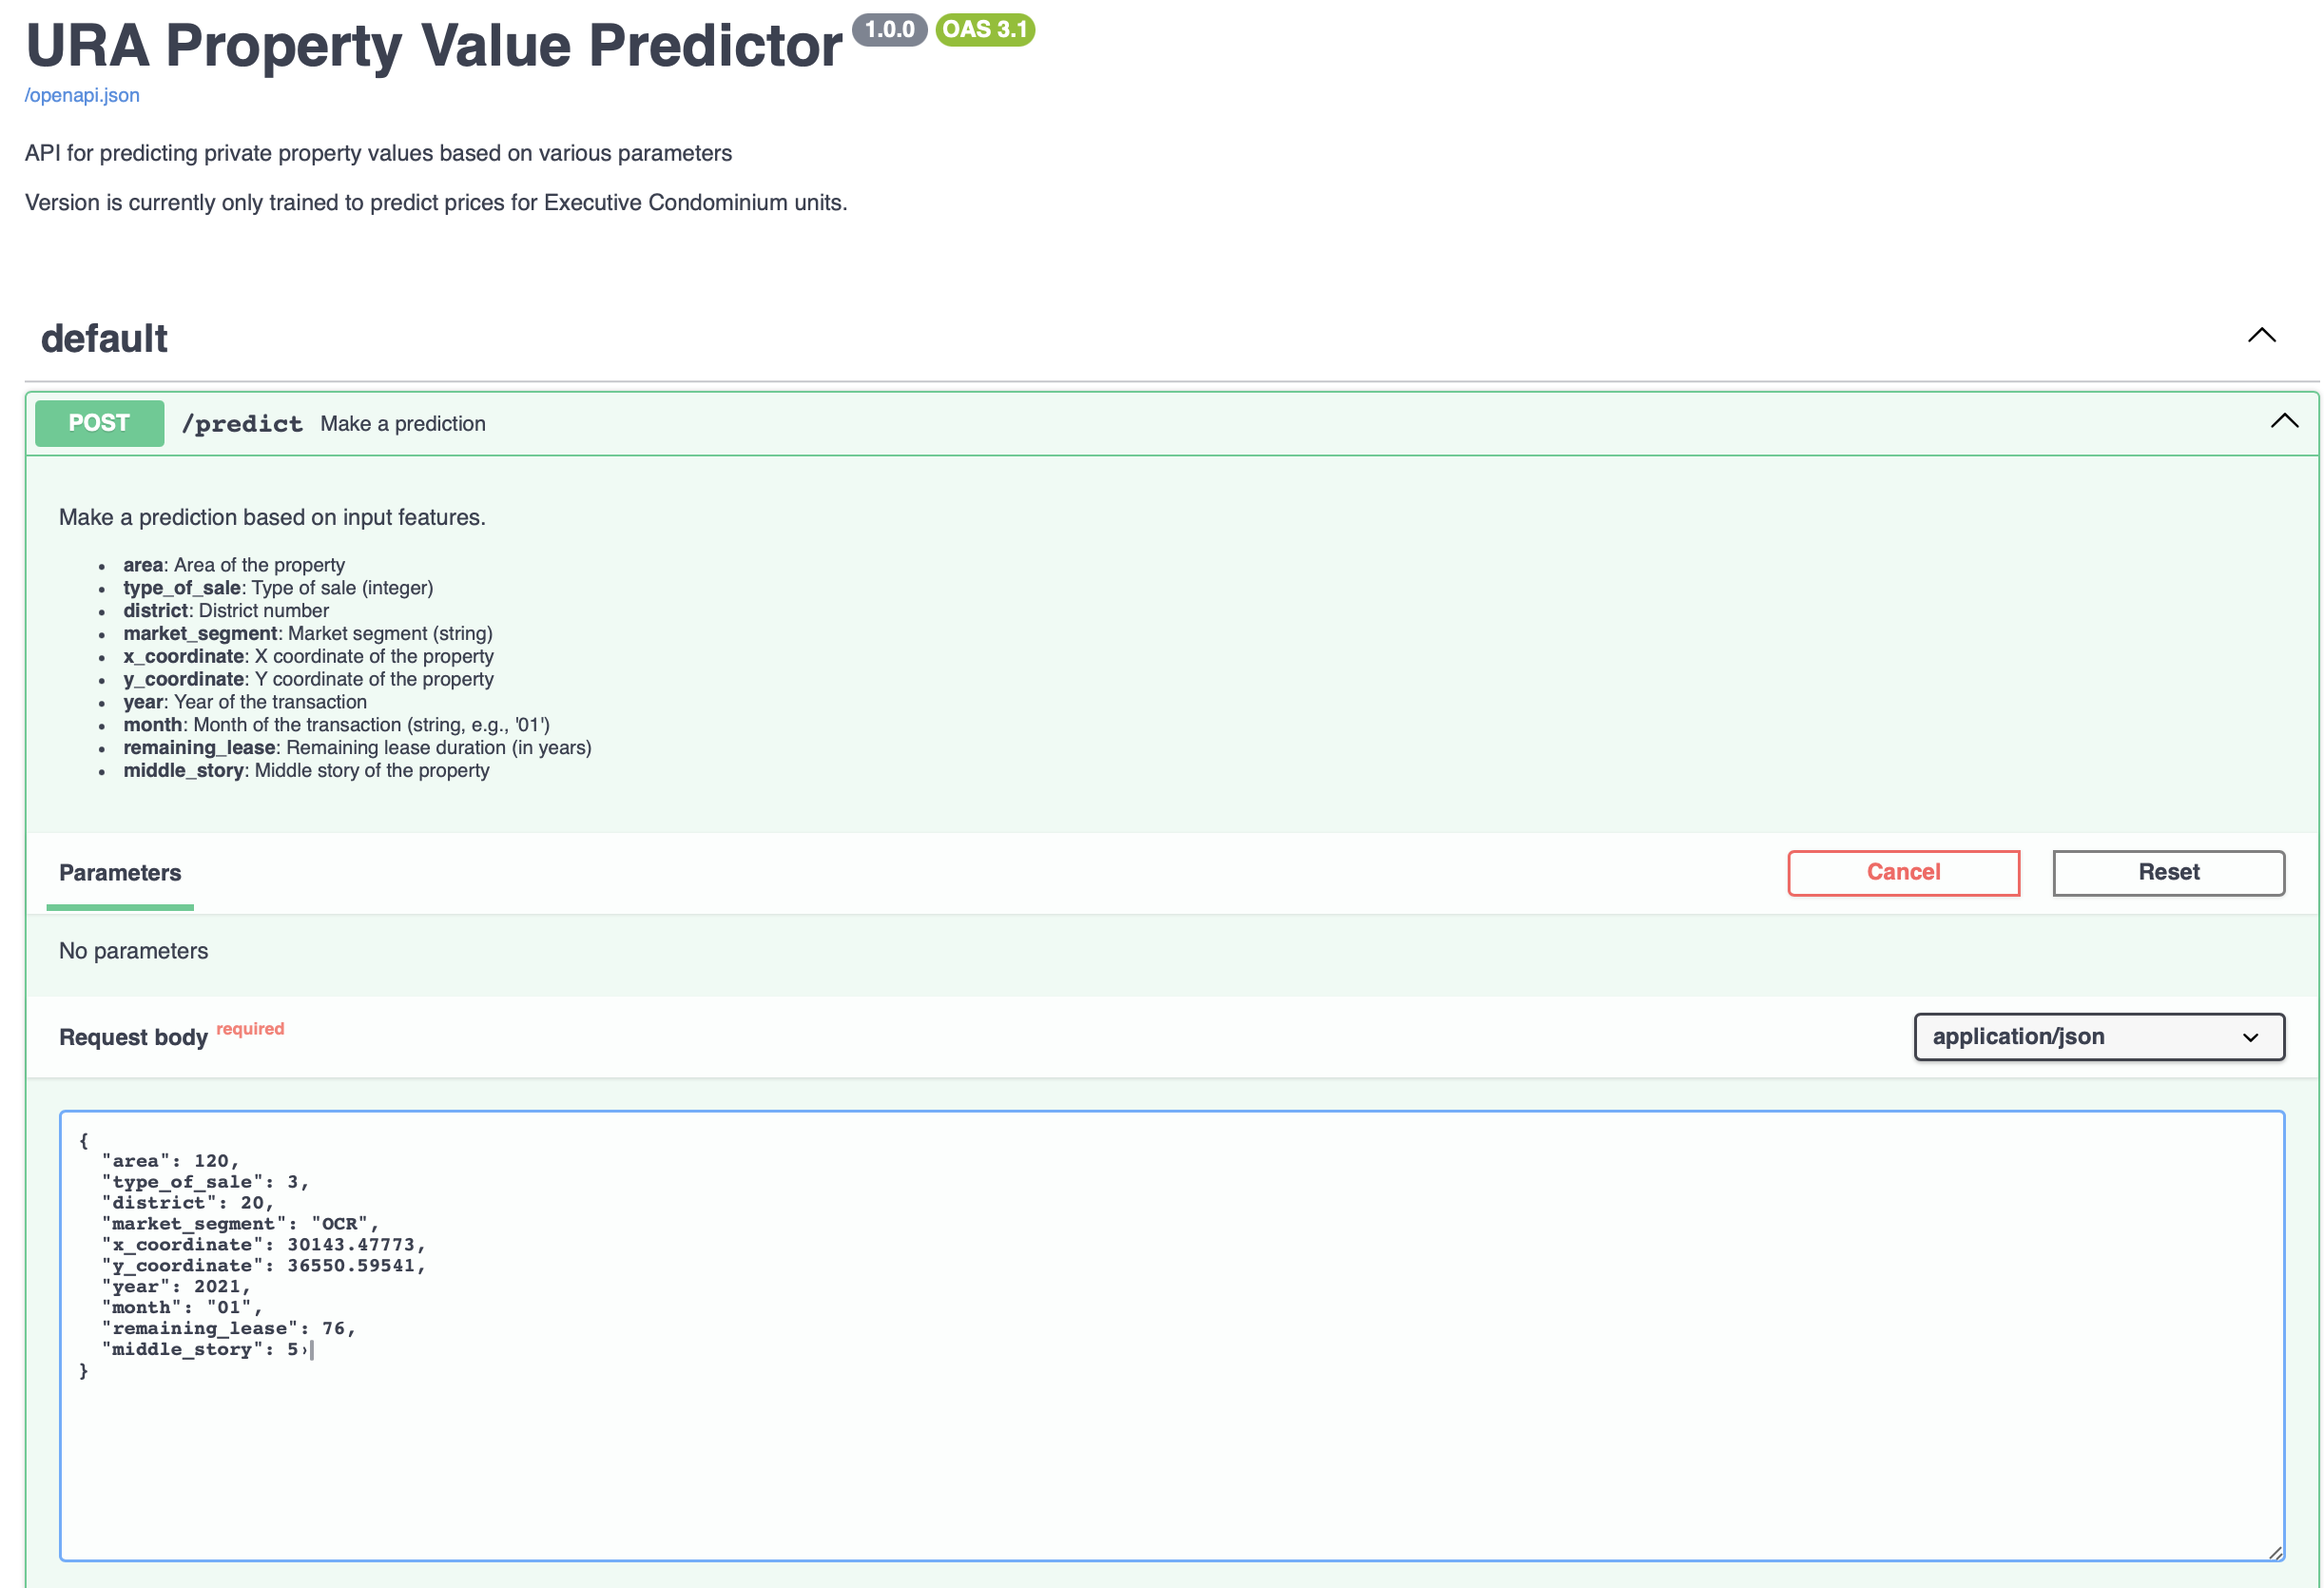
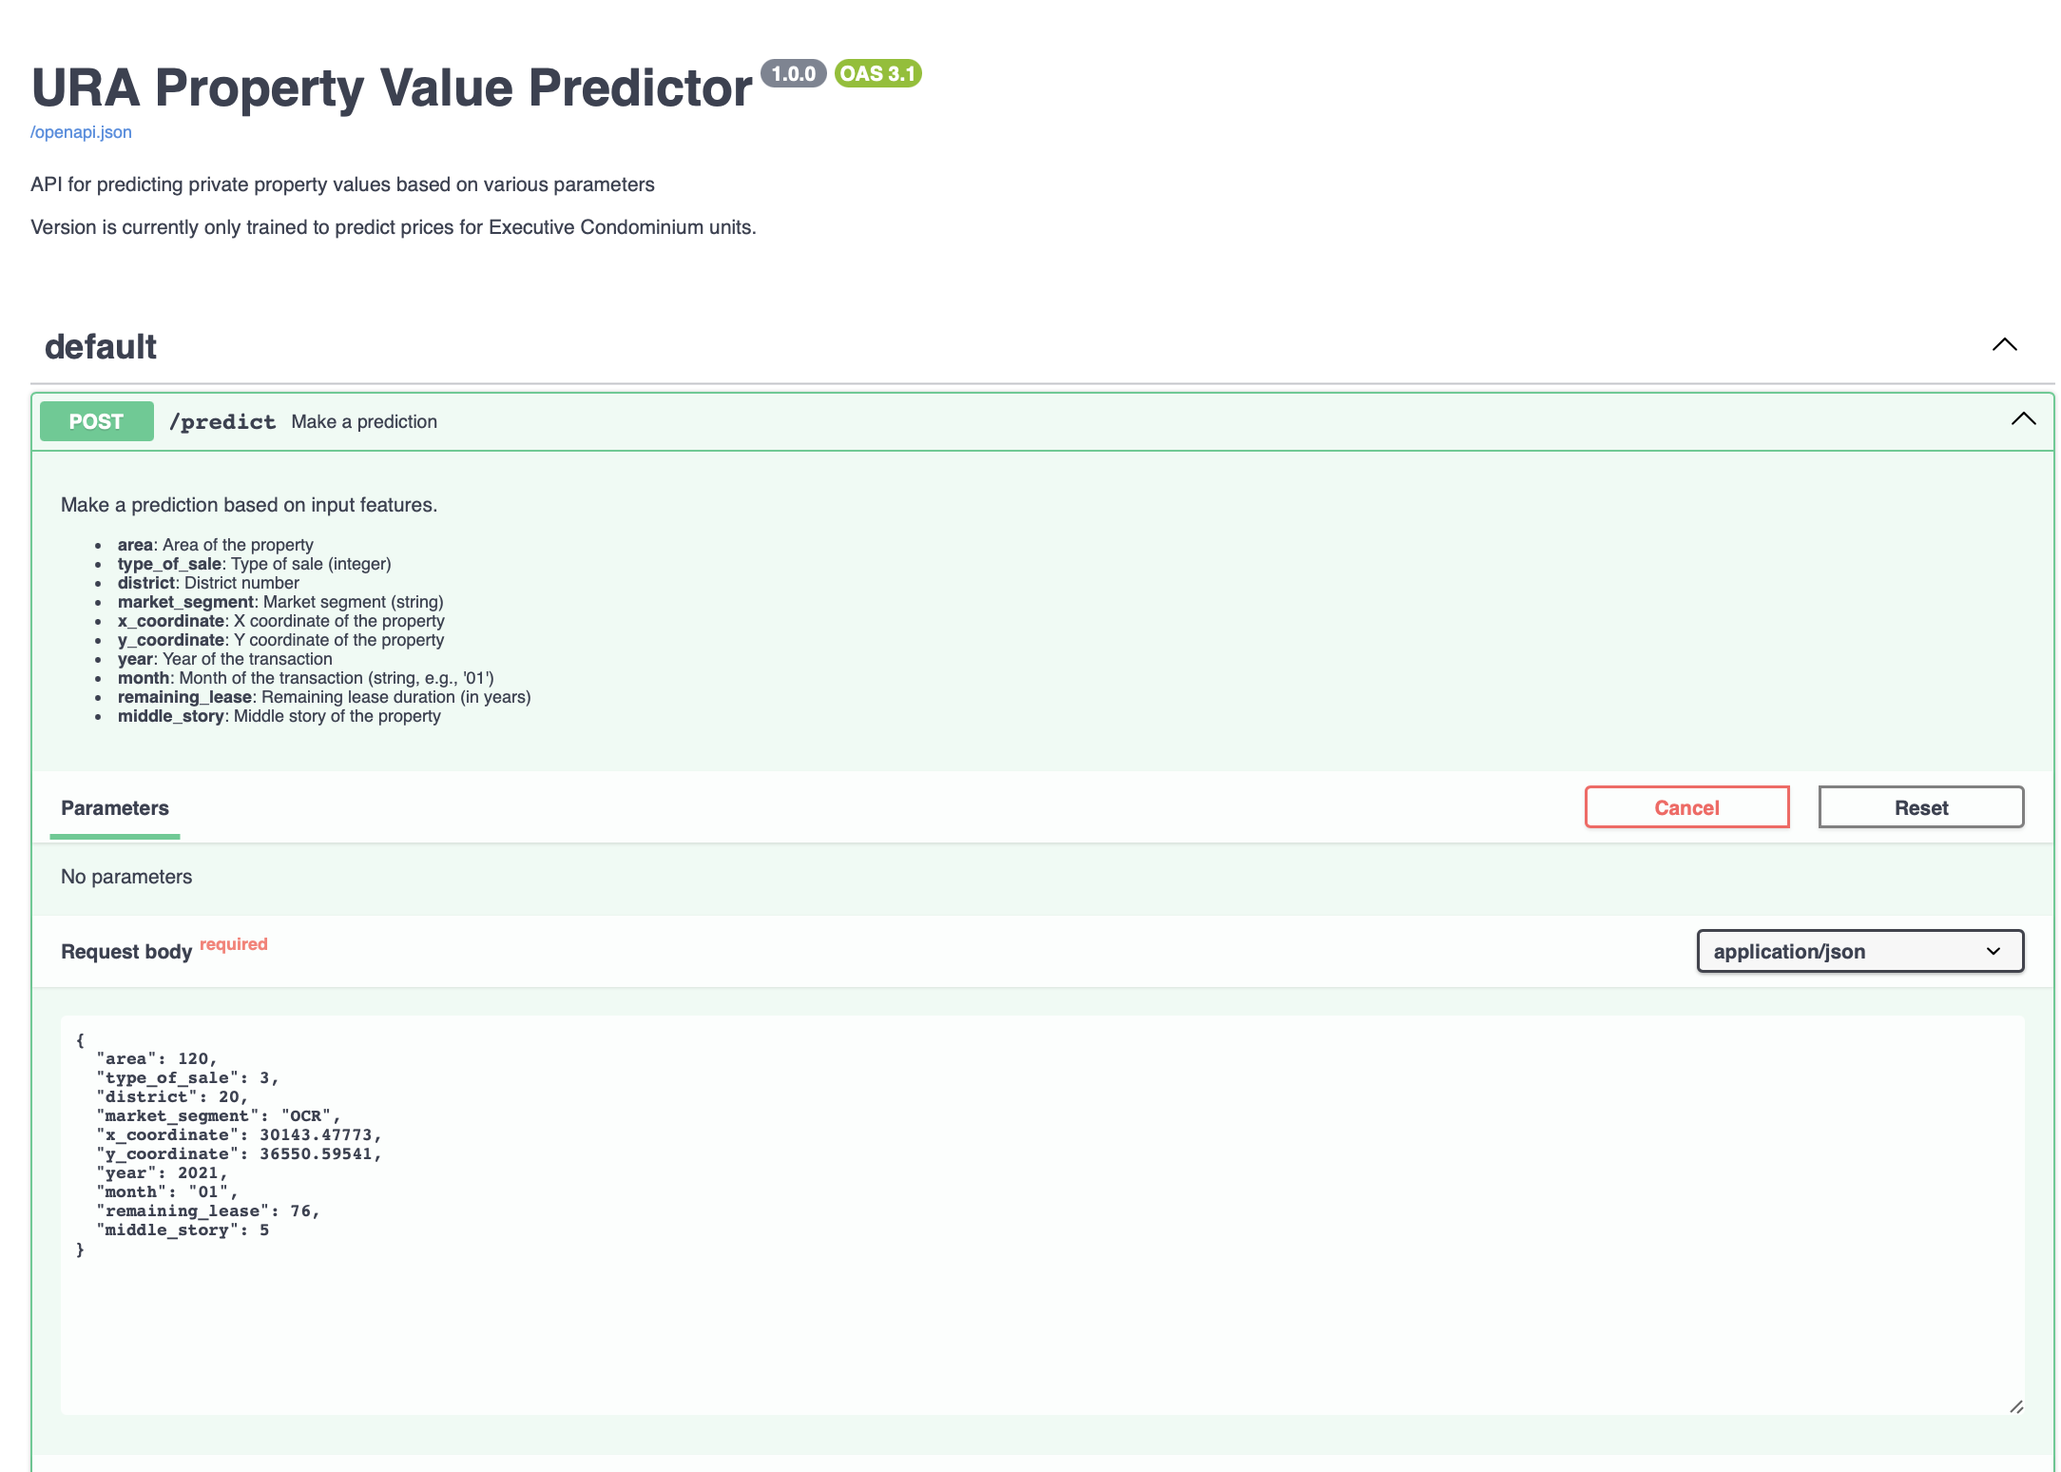
minor edits to readme

diff --git a/README.MD b/README.MD
@@ -94,7 +94,7 @@ flowchart TD
 │   ├───tests
 │   └───main.py            <- main.py for labeling reports.
 ├───ura.yml                <- `conda` environment file for reproducing the project.
-├───app.py                 <- app.py file for exposing model as RESTful service
+├───api_app.py                 <- app.py file for exposing model as RESTful service
 ├───docker-compose.yml     <- config file to spin up docker container to set up SQL database
 ├───requirements.txt       <- environment file used by app.py to expose model as RESTful service
 ├───ura.Dockerfile         <- docker file to expose model as RESTful service
